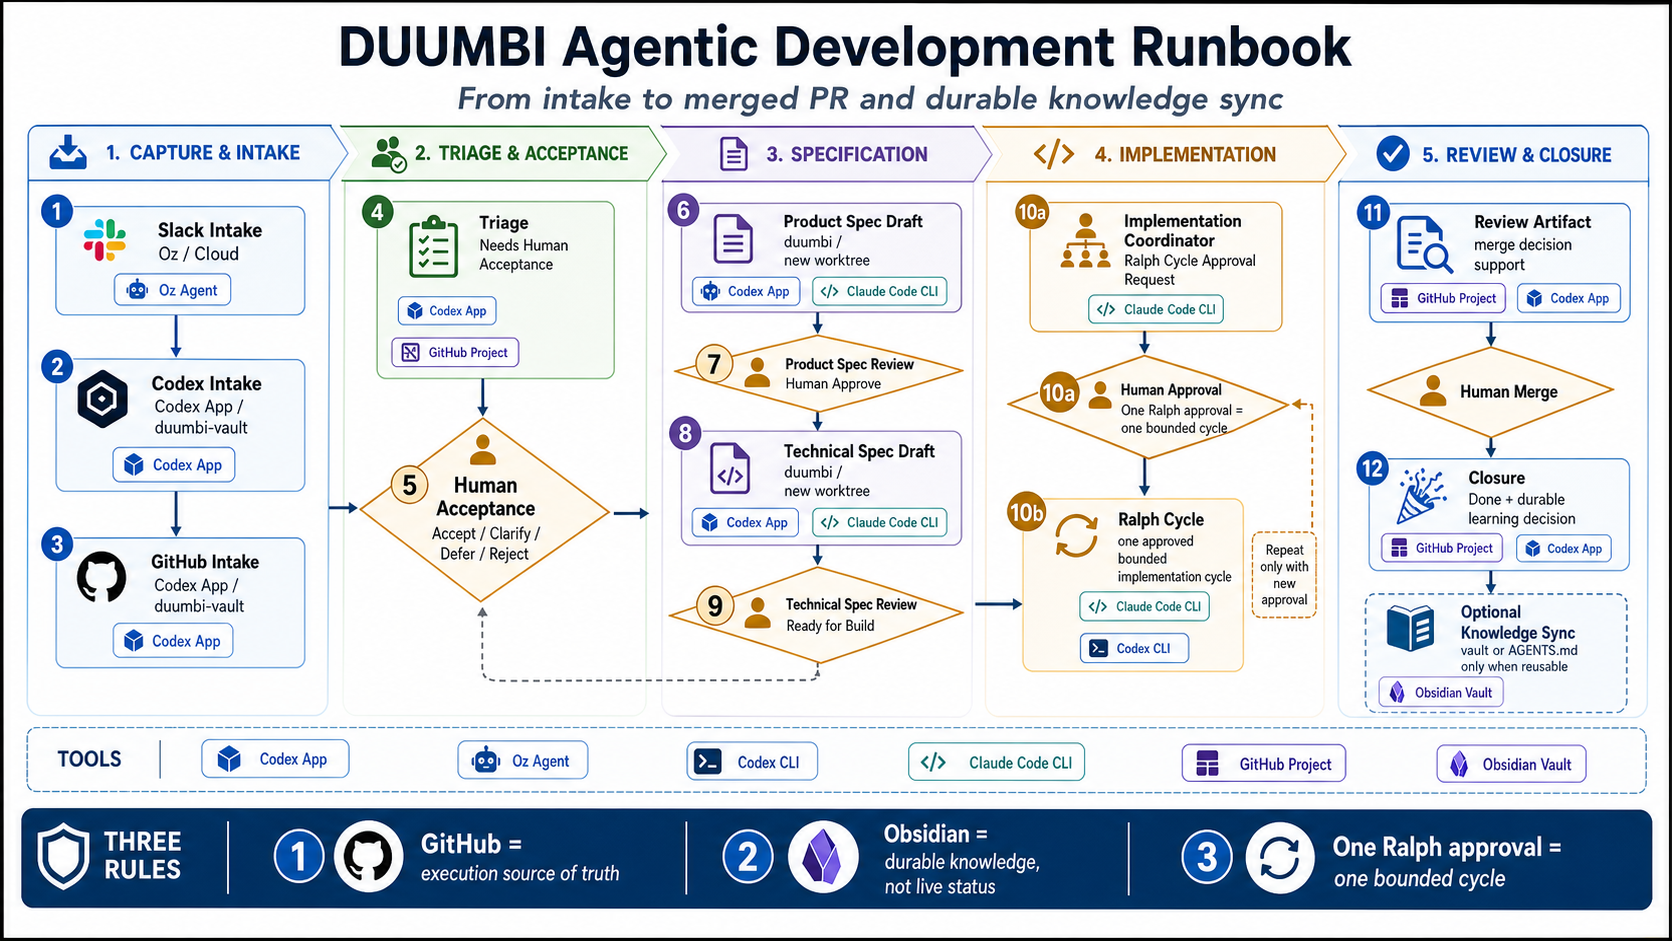
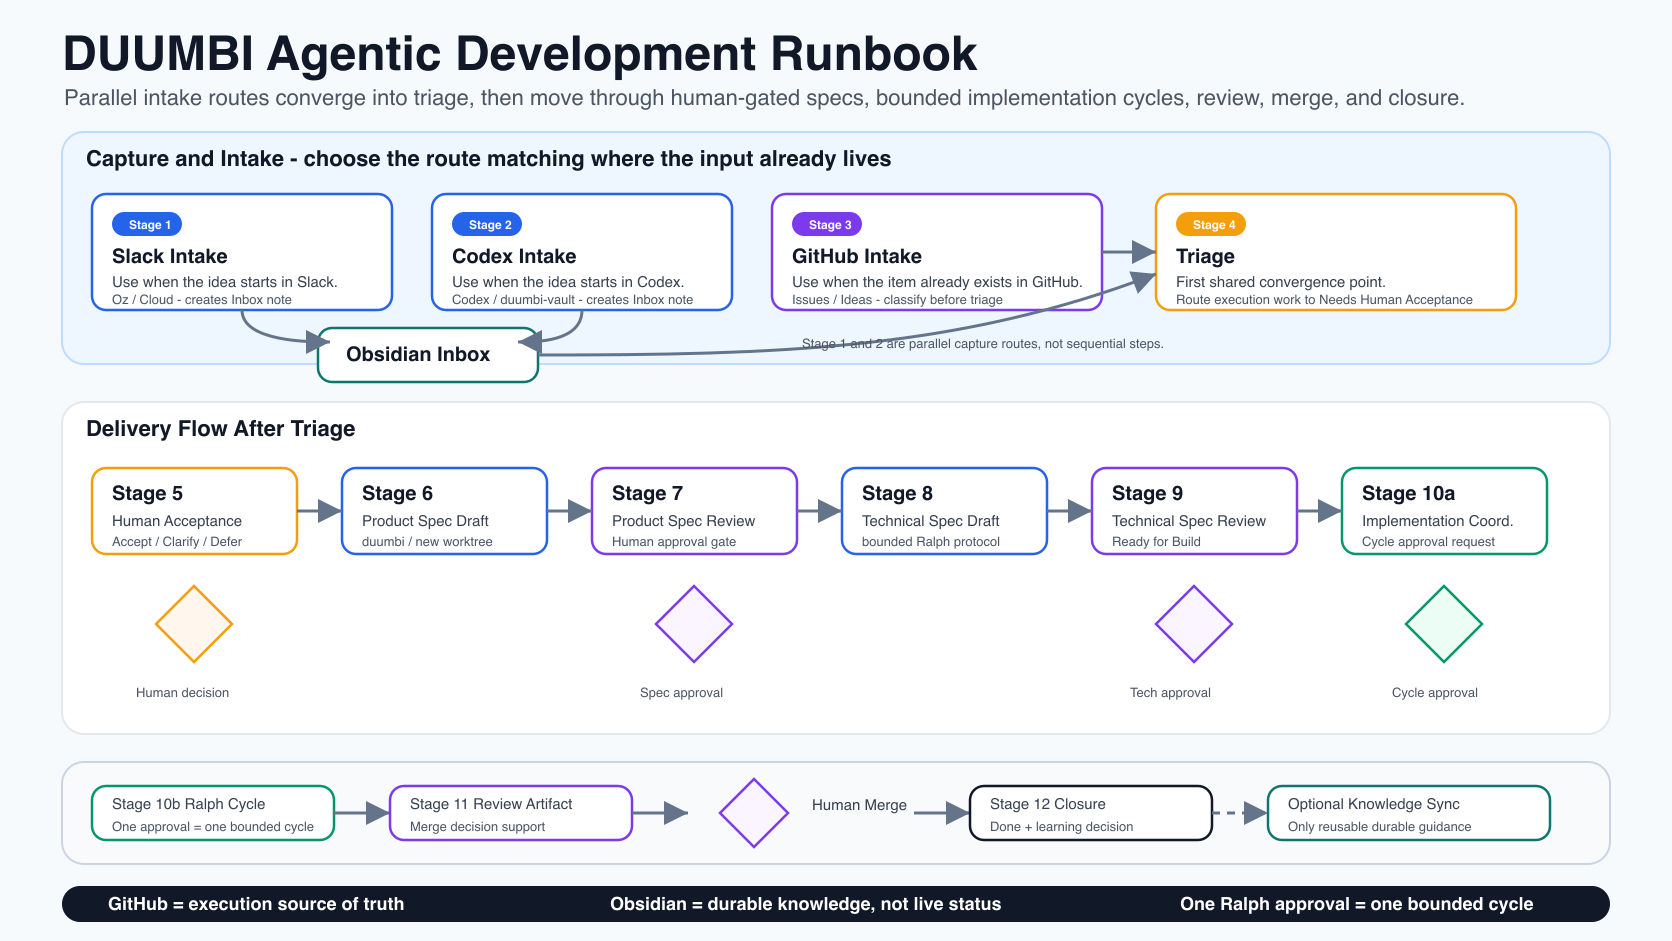
Update DUUMBI Agentic Development Runbook and assets

diff --git a/Duumbi/01 Atlas (Knowledge Base)/Works (Developed Materials)/DUUMBI - Agentic Development Runbook.md b/Duumbi/01 Atlas (Knowledge Base)/Works (Developed Materials)/DUUMBI - Agentic Development Runbook.md
@@ -59,8 +59,6 @@ Default model guidance for Codex App:
 
 ## End-To-End Run Table
 
-![[DUUMBI - Agentic Development Runbook.png]]
-
 | Stage | Skill | User or agent decision | Recommended repo | Run location | Best tool | Other viable tools | Output |
 |---|---|---|---|---|---|---|---|
 | 1 | `duumbi-obsidian-capture` | User asks Oz to capture Slack input | `duumbi-vault` | Cloud | Oz agent | Codex App if Slack context is copied in | Inbox note from Slack input |
